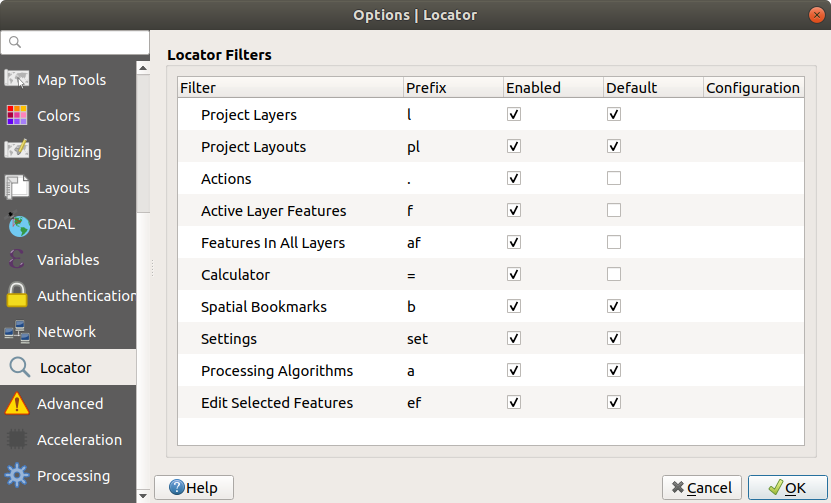
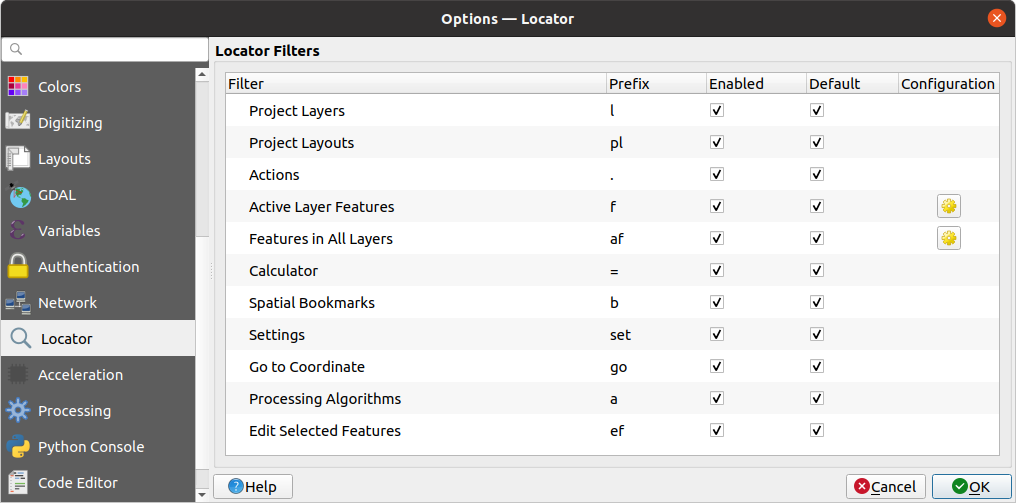
Add new locator settings and functions

diff --git a/docs/user_manual/introduction/qgis_configuration.rst b/docs/user_manual/introduction/qgis_configuration.rst
@@ -944,15 +944,22 @@ It provides some default filters (with prefix) to use:
   or menu in QGIS, opening a panel...
 * Active layer features (``f``): searches for matching attributes in any field
   from the current active layer and zooms to the selected feature.
+  Press |settings| to configure the maximum number of results.
 * Features in all layers (``af``): searches for matching attributes in the
   :ref:`display name <maptips>` of each :ref:`searchable layers <project_layer_capabilities>`
   and zooms to the selected feature.
+  Press |settings| to configure the maximum number of results and the maximum
+  number of results per layer.
 * Calculator (``=``): allows evaluation of any QGIS expression and, if valid,
   gives an option to copy the result to the clipboard.
 * Spatial bookmarks (``b``): finds and zooms to the bookmark extent.
 * Settings (``set``): browses and opens project and application-wide properties
   dialogs.
-* Processing (``a``): searches and opens a Processing algorithm dialog.
+* Go to coordinate (``go``): pans the map canvas to a location defined by a
+  comma or space separated pair of x and y coordinate or a formatted URL
+  (e.g., OpenStreetMap, Leaflet, OpenLayer, Google Maps, ...).
+  The coordinate is expected in WGS 84 (``epsg:4326``) and/or map canvas CRS.
+* Processing algorithms (``a``): searches and opens a Processing algorithm dialog.
 * Edit selected features (``ef``): gives quick access and runs a compatible
   :ref:`modify-in-place <processing_inplace_edit>` Processing algorithm on the
   active layer.
@@ -965,6 +972,7 @@ In the dialog, you can:
   searches and a shortcut is available in the locator bar menu
 * set whether the filter is :guilabel:`Default`: a search not using a filter
   returns results from only the default filters categories.
+* Some filters provide a way to configure the number of results in a  search.
 
 The set of default locator filters can be extended by plugins, eg for OSM
 nominatim searches, direct database searching, layer catalog searches.
@@ -1860,6 +1868,8 @@ in the QGIS user profile.
    :width: 2.8em
 .. |selectString| image:: /static/common/selectstring.png
    :width: 2.5em
+.. |settings| image:: /static/common/settings.png
+   :width: 1.5em
 .. |signMinus| image:: /static/common/symbologyRemove.png
    :width: 1.5em
 .. |signPlus| image:: /static/common/symbologyAdd.png

diff --git a/docs/user_manual/introduction/qgis_gui.rst b/docs/user_manual/introduction/qgis_gui.rst
@@ -2529,6 +2529,15 @@ widget, helps you find and run any feature or options in QGIS:
 #. Click on a result to execute the corresponding action, depending on the type
    of item.
 
+.. tip:: **Limit the lookup to one field of the active layer**
+
+  By default, a search with the "active layer features" filter (``af``) runs
+  through the whole attribute table of the layer. You can limit the search to
+  a particular field using the ``@`` prefix. E.g., ``af @name sal`` or
+  ``@name sal`` returns only the features whose "name" attribute contains 'sal'.
+  Text autocompletion is active when writing and suggestion can be applied
+  using :kbd:`Tab` key.
+
 Searching is handled using threads, so that results always become available as
 quickly as possible, regardless of whether any slow search filters may be
 installed. They also appear as soon as each result is encountered by each
